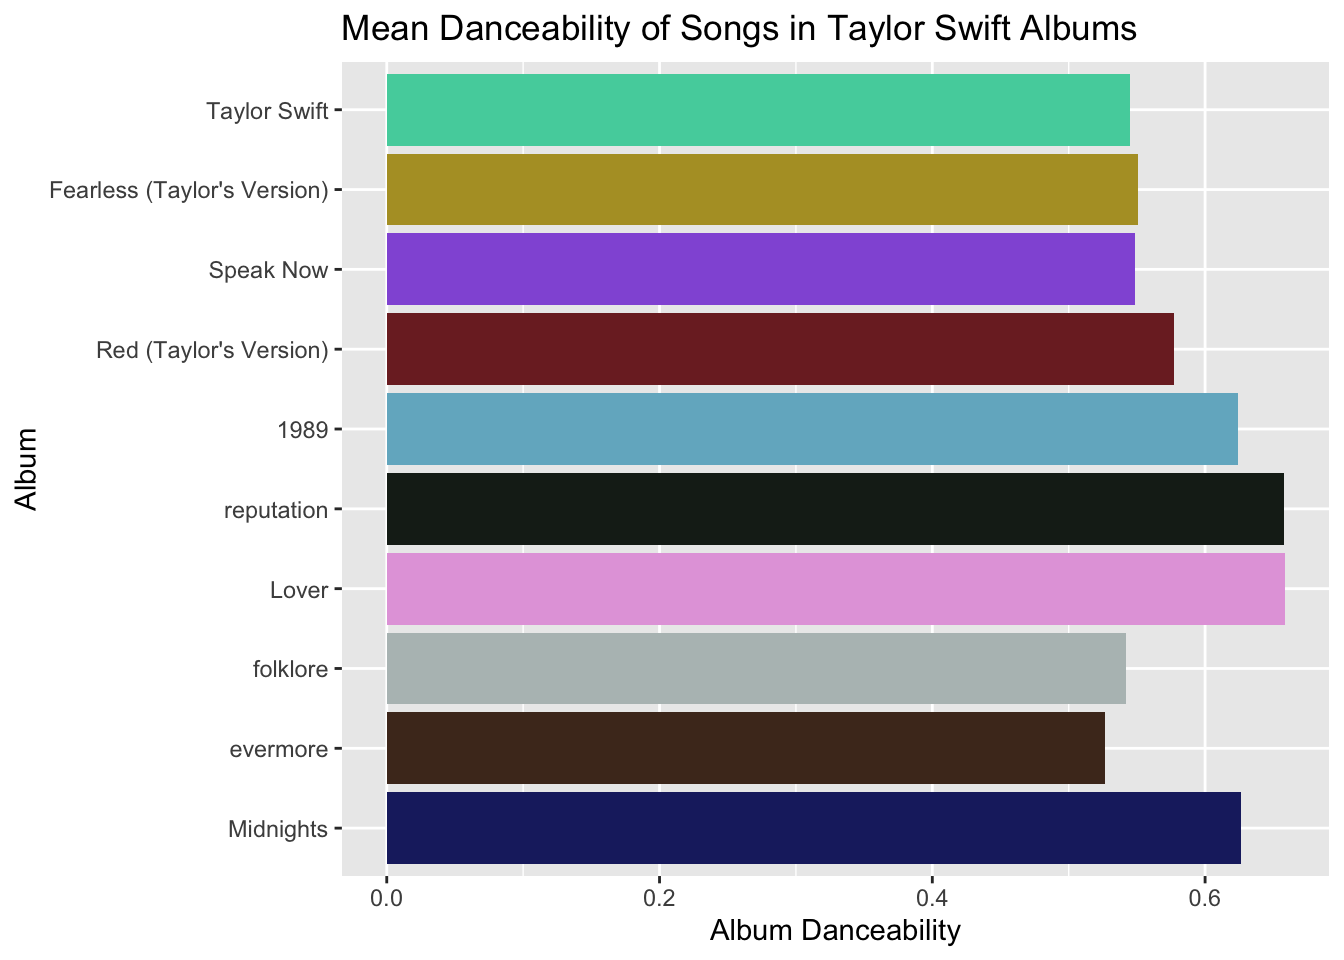
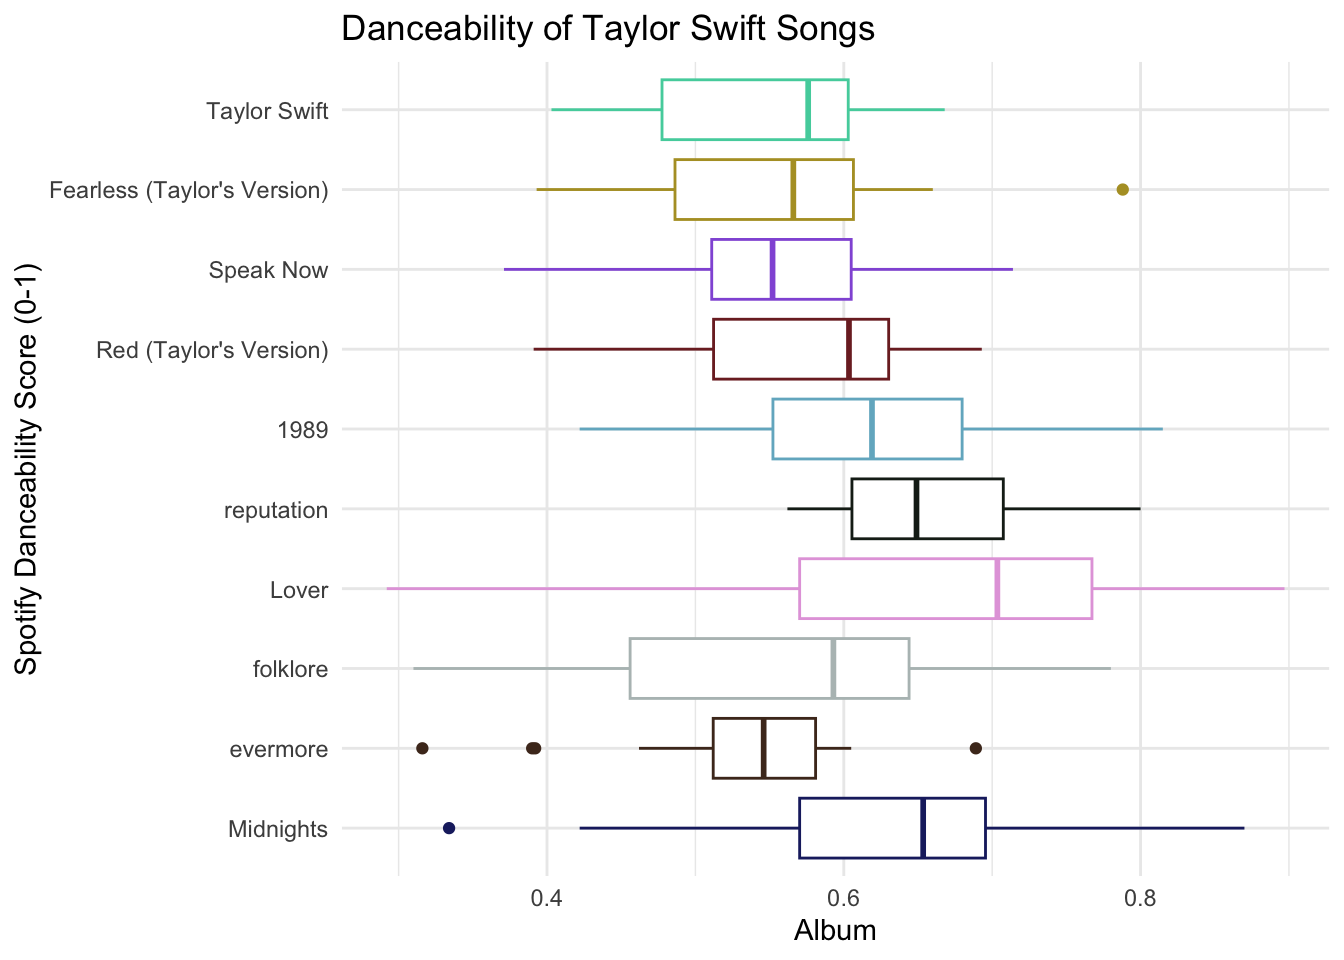
Submittable Project 1 Pass

diff --git a/docs/tidy2.html b/docs/tidy2.html
@@ -7,7 +7,7 @@
 <meta name="viewport" content="width=device-width, initial-scale=1.0, user-scalable=yes">
 
 
-<title>TidyTuesday Second Analysis – Anya Lin</title>
+<title>Taylor Swift Songs – Anya Lin</title>
 <style>
 /* Default styles provided by pandoc.
 ** See https://pandoc.org/MANUAL.html#variables-for-html for config info.
@@ -145,11 +145,11 @@ pre > code.sourceCode > span > a:first-child::before { text-decoration: underlin
     <ul class="dropdown-menu" aria-labelledby="nav-menu-data-viz">    
         <li>
     <a class="dropdown-item" href="./tidy1.html">
- <span class="dropdown-text">TidyTuesday First Analysis</span></a>
+ <span class="dropdown-text">Golem Grad Tortoises</span></a>
   </li>  
         <li>
     <a class="dropdown-item" href="./tidy2.html">
- <span class="dropdown-text">TidyTuesday Second Analysis</span></a>
+ <span class="dropdown-text">Taylor Swift Songs</span></a>
   </li>  
     </ul>
   </li>
@@ -170,7 +170,8 @@ pre > code.sourceCode > span > a:first-child::before { text-decoration: underlin
 
 <header id="title-block-header" class="quarto-title-block default">
 <div class="quarto-title">
-<h1 class="title">TidyTuesday Second Analysis</h1>
+<h1 class="title">Taylor Swift Songs</h1>
+<p class="subtitle lead">Second TidyTuesday Analysis</p>
 </div>
 
 
@@ -189,7 +190,7 @@ pre > code.sourceCode > span > a:first-child::before { text-decoration: underlin
 
 <div class="cell">
 <details class="code-fold">
-<summary>Show the code</summary>
+<summary>R Code</summary>
 <div class="code-copy-outer-scaffold"><div class="sourceCode cell-code" id="cb1"><pre class="sourceCode r code-with-copy"><code class="sourceCode r"><span id="cb1-1"><a href="#cb1-1" aria-hidden="true" tabindex="-1"></a><span class="fu">library</span>(tidyverse)</span>
 <span id="cb1-2"><a href="#cb1-2" aria-hidden="true" tabindex="-1"></a></span>
 <span id="cb1-3"><a href="#cb1-3" aria-hidden="true" tabindex="-1"></a>taylor_album_songs <span class="ot">&lt;-</span> readr<span class="sc">::</span><span class="fu">read_csv</span>(<span class="st">'https://raw.githubusercontent.com/rfordatascience/tidytuesday/main/data/2023/2023-10-17/taylor_album_songs.csv'</span>)</span>
@@ -197,22 +198,20 @@ pre > code.sourceCode > span > a:first-child::before { text-decoration: underlin
 <span id="cb1-5"><a href="#cb1-5" aria-hidden="true" tabindex="-1"></a>taylor_albums <span class="ot">&lt;-</span> readr<span class="sc">::</span><span class="fu">read_csv</span>(<span class="st">'https://raw.githubusercontent.com/rfordatascience/tidytuesday/main/data/2023/2023-10-17/taylor_albums.csv'</span>)</span></code></pre></div><button title="Copy to Clipboard" class="code-copy-button"><i class="bi"></i></button></div>
 </details>
 </div>
+<p>This data was taken from <a href="https://github.com/rfordatascience/tidytuesday/blob/main/data/2023/2023-10-17/readme.md">TidyTuesday’s 2023-10-17 project</a>, and originally came from Genius and the Spotify API.</p>
+<p><strong>Background</strong></p>
+<p>This dataset spans 17 years of Taylor Swift’s music career, from when she first released her debut album in 2006 to the week that the Eras Tour film premiered in October 2023. Thus, this dataset excludes the albums released afterwards, like the Taylor’s Versions of Speak Now and 1989, as well as the new albums, The Tortured Poets Department + The Anthology, and The Life of a Showgirl + The Encore (though this might be for the best, depending on who you talk to).</p>
+<p><strong>Danceability</strong></p>
+<p>Following the release of the “Shake It Off” music video in 2014, and again during The Eras Tour, Taylor Swift recieved mass amounts of online hate surrounding her dancing ability. Thus, it makes sense to track her songs’ danceability.</p>
+<p>This boxplot shows the spread of Spotify Danceability Scores (1 being the most danceable and 0 being the least) for each of Taylor Swift’s albums. The plot is ordered in chronological order with her first album at the top. This spread suggests that Lover has the greatest spread in terms of how danceable the songs on an album are, and that her pop albums (1989, reputation, Lover, and Midnights) tend to be more danceable than her country albums (Taylor Swift, Fearless, and Speak Now).</p>
 <div class="cell">
 <details class="code-fold">
-<summary>Show the code</summary>
-<div class="code-copy-outer-scaffold"><div class="sourceCode cell-code" id="cb2"><pre class="sourceCode r code-with-copy"><code class="sourceCode r"><span id="cb2-1"><a href="#cb2-1" aria-hidden="true" tabindex="-1"></a>danceable_songs <span class="ot">&lt;-</span> taylor_album_songs <span class="sc">|&gt;</span></span>
-<span id="cb2-2"><a href="#cb2-2" aria-hidden="true" tabindex="-1"></a>    <span class="co">#filter(album_name != "Midnights") |&gt;</span></span>
-<span id="cb2-3"><a href="#cb2-3" aria-hidden="true" tabindex="-1"></a>        <span class="fu">group_by</span>(album_name) <span class="sc">|&gt;</span></span>
-<span id="cb2-4"><a href="#cb2-4" aria-hidden="true" tabindex="-1"></a>            <span class="fu">summarize</span>(<span class="at">album_danceability =</span> <span class="fu">mean</span>(danceability, <span class="at">na.rm =</span> <span class="cn">TRUE</span>))</span>
-<span id="cb2-5"><a href="#cb2-5" aria-hidden="true" tabindex="-1"></a>            </span>
-<span id="cb2-6"><a href="#cb2-6" aria-hidden="true" tabindex="-1"></a></span>
-<span id="cb2-7"><a href="#cb2-7" aria-hidden="true" tabindex="-1"></a></span>
-<span id="cb2-8"><a href="#cb2-8" aria-hidden="true" tabindex="-1"></a><span class="fu">ggplot</span>(danceable_songs, <span class="fu">aes</span>(<span class="at">x =</span> <span class="fu">fct_rev</span>(<span class="fu">fct_relevel</span>(album_name, <span class="st">"Taylor Swift"</span>, <span class="st">"Fearless (Taylor's Version)"</span>, <span class="st">"Speak Now"</span>, <span class="st">"Red (Taylor's Version)"</span>, <span class="st">"1989"</span>, <span class="st">"reputation"</span> , <span class="st">"Lover"</span> , <span class="st">"folklore"</span> , <span class="st">"evermore"</span>, <span class="st">"Midnights"</span>)), <span class="at">y =</span> album_danceability, <span class="at">fill =</span> album_name)) <span class="sc">+</span></span>
-<span id="cb2-9"><a href="#cb2-9" aria-hidden="true" tabindex="-1"></a>    <span class="fu">geom_col</span>() <span class="sc">+</span>   </span>
-<span id="cb2-10"><a href="#cb2-10" aria-hidden="true" tabindex="-1"></a>    <span class="fu">coord_flip</span>() <span class="sc">+</span> </span>
-<span id="cb2-11"><a href="#cb2-11" aria-hidden="true" tabindex="-1"></a>    <span class="fu">scale_fill_manual</span>(<span class="at">values =</span> <span class="fu">c</span>(<span class="st">"Taylor Swift"</span> <span class="ot">=</span> <span class="st">"#52d1ab"</span>, <span class="st">"Fearless (Taylor's Version)"</span> <span class="ot">=</span> <span class="st">"#b39e2d"</span>, <span class="st">"Speak Now"</span> <span class="ot">=</span> <span class="st">"#935dd9"</span>, <span class="st">"Red (Taylor's Version)"</span> <span class="ot">=</span> <span class="st">"#7d282b"</span>, <span class="st">"1989"</span> <span class="ot">=</span> <span class="st">"#73b4c9"</span>, <span class="st">"reputation"</span> <span class="ot">=</span> <span class="st">"#1a241c"</span> , <span class="st">"Lover"</span> <span class="ot">=</span> <span class="st">"#e3a6dd"</span>, <span class="st">"folklore"</span> <span class="ot">=</span> <span class="st">"#b6bfbf"</span>, <span class="st">"evermore"</span> <span class="ot">=</span> <span class="st">"#4d3323"</span>, <span class="st">"Midnights"</span> <span class="ot">=</span> <span class="st">"#1d276e"</span>)) <span class="sc">+</span> </span>
-<span id="cb2-12"><a href="#cb2-12" aria-hidden="true" tabindex="-1"></a>    <span class="fu">labs</span>(<span class="at">title =</span> <span class="st">"Mean Danceability of Songs in Taylor Swift Albums"</span>, <span class="at">x =</span> <span class="st">"Album"</span>, <span class="at">y =</span> <span class="st">"Album Danceability"</span>) <span class="sc">+</span></span>
-<span id="cb2-13"><a href="#cb2-13" aria-hidden="true" tabindex="-1"></a>    <span class="fu">theme</span>(<span class="at">legend.position =</span> <span class="st">"none"</span>) </span></code></pre></div><button title="Copy to Clipboard" class="code-copy-button"><i class="bi"></i></button></div>
+<summary>R Code</summary>
+<div class="code-copy-outer-scaffold"><div class="sourceCode cell-code" id="cb2"><pre class="sourceCode r code-with-copy"><code class="sourceCode r"><span id="cb2-1"><a href="#cb2-1" aria-hidden="true" tabindex="-1"></a><span class="fu">ggplot</span>(taylor_album_songs, <span class="fu">aes</span>(<span class="at">x =</span> <span class="fu">fct_rev</span>(<span class="fu">fct_relevel</span>(album_name, <span class="st">"Taylor Swift"</span>, <span class="st">"Fearless (Taylor's Version)"</span>, <span class="st">"Speak Now"</span>, <span class="st">"Red (Taylor's Version)"</span>, <span class="st">"1989"</span>, <span class="st">"reputation"</span> , <span class="st">"Lover"</span> , <span class="st">"folklore"</span> , <span class="st">"evermore"</span>, <span class="st">"Midnights"</span>)), <span class="at">y =</span> danceability, <span class="at">color =</span> album_name)) <span class="sc">+</span></span>
+<span id="cb2-2"><a href="#cb2-2" aria-hidden="true" tabindex="-1"></a>  <span class="fu">geom_boxplot</span>() <span class="sc">+</span> <span class="fu">theme_minimal</span>() <span class="sc">+</span></span>
+<span id="cb2-3"><a href="#cb2-3" aria-hidden="true" tabindex="-1"></a>  <span class="fu">scale_color_manual</span>(<span class="at">values =</span> <span class="fu">c</span>(<span class="st">"Taylor Swift"</span> <span class="ot">=</span> <span class="st">"#52d1ab"</span>, <span class="st">"Fearless (Taylor's Version)"</span> <span class="ot">=</span> <span class="st">"#b39e2d"</span>, <span class="st">"Speak Now"</span> <span class="ot">=</span> <span class="st">"#935dd9"</span>, <span class="st">"Red (Taylor's Version)"</span> <span class="ot">=</span> <span class="st">"#7d282b"</span>, <span class="st">"1989"</span> <span class="ot">=</span> <span class="st">"#73b4c9"</span>, <span class="st">"reputation"</span> <span class="ot">=</span> <span class="st">"#1a241c"</span> , <span class="st">"Lover"</span> <span class="ot">=</span> <span class="st">"#e3a6dd"</span>, <span class="st">"folklore"</span> <span class="ot">=</span> <span class="st">"#b6bfbf"</span>, <span class="st">"evermore"</span> <span class="ot">=</span> <span class="st">"#4d3323"</span>, <span class="st">"Midnights"</span> <span class="ot">=</span> <span class="st">"#1d276e"</span>)) <span class="sc">+</span></span>
+<span id="cb2-4"><a href="#cb2-4" aria-hidden="true" tabindex="-1"></a> <span class="fu">theme</span>(<span class="at">legend.position =</span> <span class="st">"none"</span>) <span class="sc">+</span></span>
+<span id="cb2-5"><a href="#cb2-5" aria-hidden="true" tabindex="-1"></a> <span class="fu">labs</span>(<span class="at">title =</span> <span class="st">"Danceability of Taylor Swift Songs"</span>, <span class="at">y =</span> <span class="st">"Album"</span>, <span class="at">x =</span> <span class="st">"Spotify Danceability Score (0-1)"</span>) <span class="sc">+</span> <span class="fu">coord_flip</span>()</span></code></pre></div><button title="Copy to Clipboard" class="code-copy-button"><i class="bi"></i></button></div>
 </details>
 <div class="cell-output-display">
 <div>
@@ -220,6 +219,15 @@ pre > code.sourceCode > span > a:first-child::before { text-decoration: underlin
 <p><img src="tidy2_files/figure-html/unnamed-chunk-2-1.png" class="img-fluid figure-img" width="672"></p>
 </figure>
 </div>
+</div>
+</div>
+<div class="cell">
+<details class="code-fold">
+<summary>R Code</summary>
+<div class="code-copy-outer-scaffold"><div class="sourceCode cell-code" id="cb3"><pre class="sourceCode r code-with-copy"><code class="sourceCode r"><span id="cb3-1"><a href="#cb3-1" aria-hidden="true" tabindex="-1"></a><span class="fu">print</span>(<span class="st">"You know how to ball, I know Aristotle."</span>)</span></code></pre></div><button title="Copy to Clipboard" class="code-copy-button"><i class="bi"></i></button></div>
+</details>
+<div class="cell-output cell-output-stdout">
+<pre><code>[1] "You know how to ball, I know Aristotle."</code></pre>
 </div>
 </div>
 

diff --git a/docs/about.html b/docs/about.html
@@ -110,11 +110,11 @@ ul.task-list li input[type="checkbox"] {
     <ul class="dropdown-menu" aria-labelledby="nav-menu-data-viz">    
         <li>
     <a class="dropdown-item" href="./tidy1.html">
- <span class="dropdown-text">TidyTuesday First Analysis</span></a>
+ <span class="dropdown-text">Golem Grad Tortoises</span></a>
   </li>  
         <li>
     <a class="dropdown-item" href="./tidy2.html">
- <span class="dropdown-text">TidyTuesday Second Analysis</span></a>
+ <span class="dropdown-text">Taylor Swift Songs</span></a>
   </li>  
     </ul>
   </li>

diff --git a/docs/index.html b/docs/index.html
@@ -109,11 +109,11 @@ ul.task-list li input[type="checkbox"] {
     <ul class="dropdown-menu" aria-labelledby="nav-menu-data-viz">    
         <li>
     <a class="dropdown-item" href="./tidy1.html">
- <span class="dropdown-text">TidyTuesday First Analysis</span></a>
+ <span class="dropdown-text">Golem Grad Tortoises</span></a>
   </li>  
         <li>
     <a class="dropdown-item" href="./tidy2.html">
- <span class="dropdown-text">TidyTuesday Second Analysis</span></a>
+ <span class="dropdown-text">Taylor Swift Songs</span></a>
   </li>  
     </ul>
   </li>

diff --git a/docs/tidy1.html b/docs/tidy1.html
@@ -149,7 +149,7 @@ pre > code.sourceCode > span > a:first-child::before { text-decoration: underlin
   </li>  
         <li>
     <a class="dropdown-item" href="./tidy2.html">
- <span class="dropdown-text">TidyTuesday Second Analysis</span></a>
+ <span class="dropdown-text">Taylor Swift Songs</span></a>
   </li>  
     </ul>
   </li>
